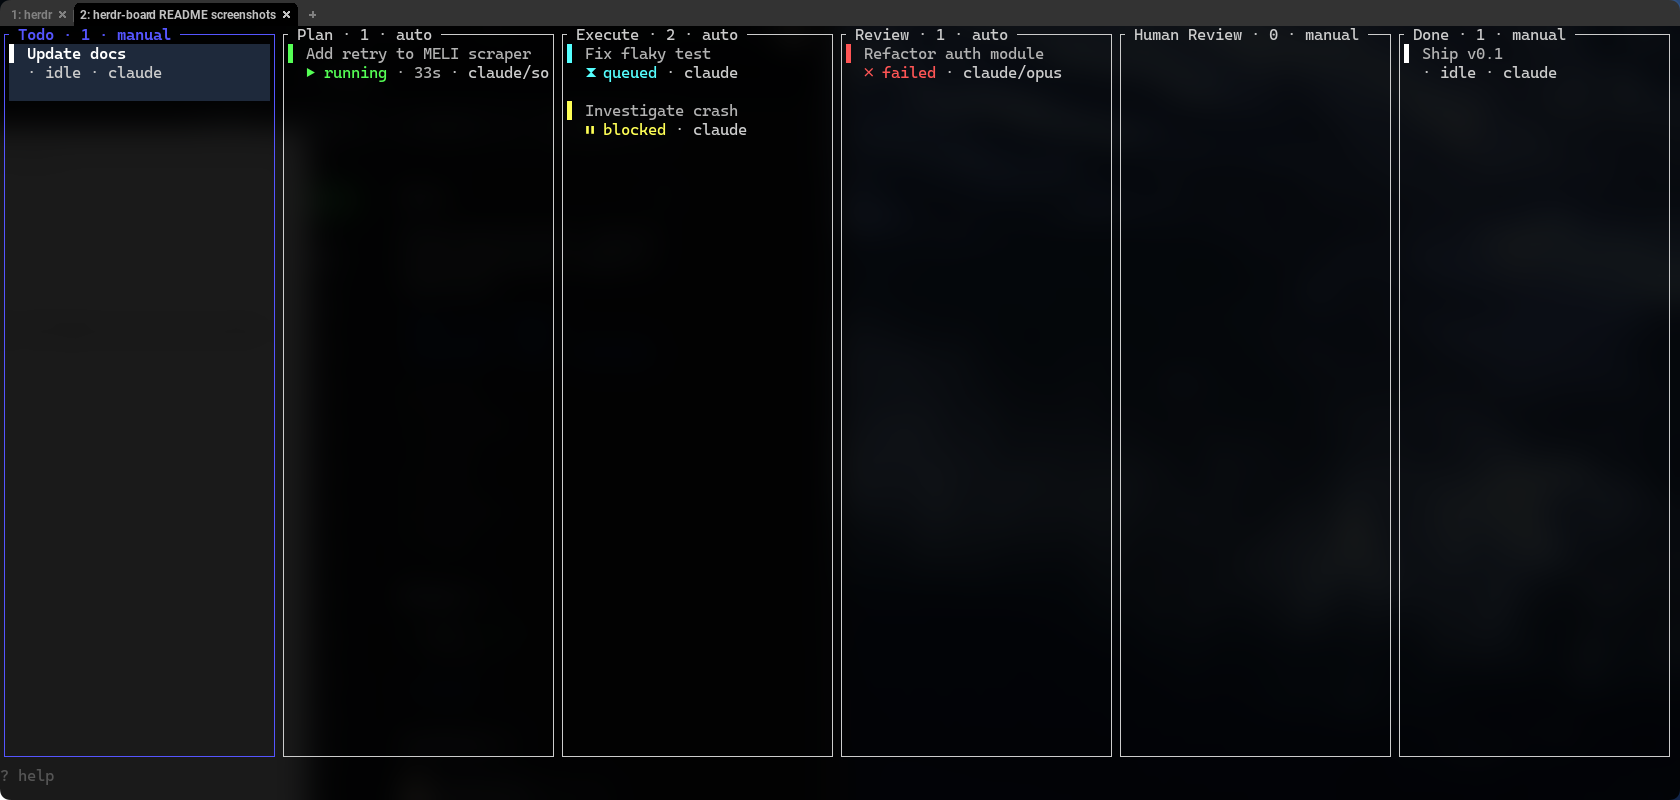
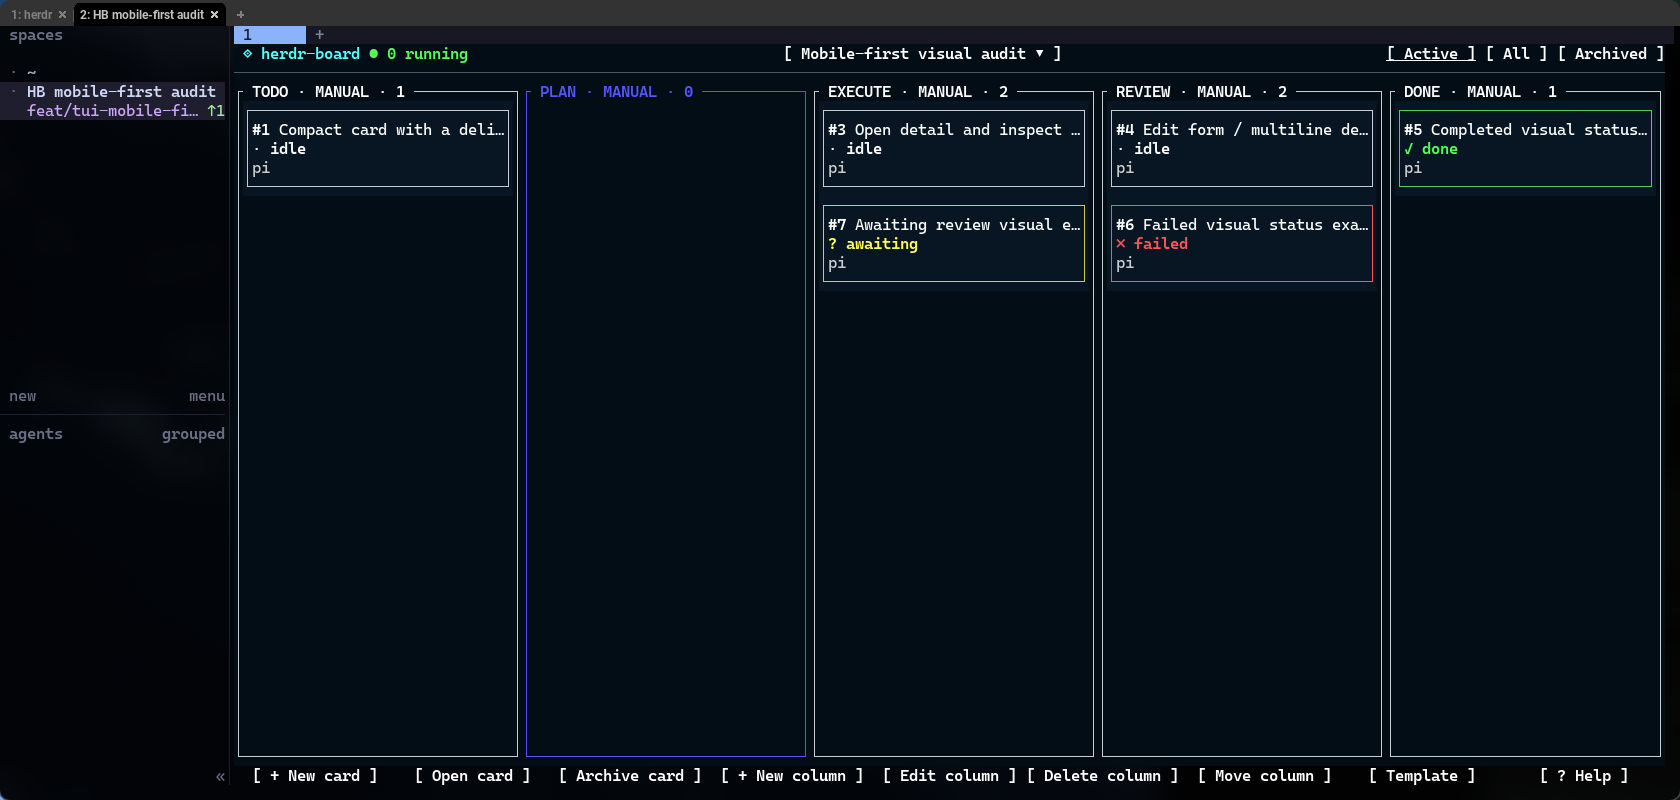
docs: refresh responsive TUI screenshots

diff --git a/README.md b/README.md
@@ -10,7 +10,7 @@ prompts, columns define pipeline stages, and moving work across the board can pl
 and stop at human gates automatically.
 
 <p align="center">
-  <img src="docs/assets/readme/board-overview.png" alt="herdr-board showing a six-column pipeline with idle, running, queued, blocked, and failed cards" width="100%">
+  <img src="docs/assets/readme/board-overview.png" alt="Wide herdr-board view with boxed cards, colored statuses, a single-line header, and a persistent action rail" width="100%">
 </p>
 
 ```text
@@ -120,7 +120,7 @@ All board state lives under `~/.local/share/herdr-board/`; Herdr's own state is 
 
 | Guided card creation | Card context and run history |
 |:--:|:--:|
-| <img src="docs/assets/readme/new-card.png" alt="New card form with harness, model, effort, permission, session, and workspace fields" width="820"> | <img src="docs/assets/readme/card-detail.png" alt="Card detail popup showing status, description, comments, and run history" width="820"> |
+| <img src="docs/assets/readme/new-card.png" alt="Current New card form with a description editor, agent settings, execution target, and persistent action rail" width="820"> | <img src="docs/assets/readme/card-detail.png" alt="Current card detail sheet showing idle status, task configuration, description, runs and comments sections, and actions" width="820"> |
 
 ### Agents run in visible Herdr panes
 
@@ -130,7 +130,7 @@ from durable pane identity, never from a matching label, so a user tab is never 
 placement and recovery rules are in [`docs/design.md`](docs/design.md).
 
 <p align="center">
-  <img src="docs/assets/readme/agent-panes.png" alt="Herdr workspace with board agents in separate per-card tabs" width="100%">
+  <img src="docs/assets/readme/agent-panes.png" alt="Retained Herdr workspace view with visible board agent panes labeled per card" width="100%">
 </p>
 
 ## Mobile-first TUI
@@ -154,6 +154,15 @@ retain wrapped editing and `$EDITOR` support while using the same focused and
 unfocused value treatment as title/name fields. The old persistent footer hint
 row is gone; only transient toasts use its former space. All original keyboard
 shortcuts are preserved.
+
+Compact adapts to smaller screens and is touch-friendly when the terminal maps
+taps to pointer clicks: navigation, filters, cards, and action chips are all
+tappable/clickable. This is pointer-click support rather than native swipe or
+pinch gestures; keyboard shortcuts remain available too.
+
+<p align="center">
+  <img src="docs/assets/readme/compact-board.png" alt="Compact herdr-board with a three-row header, touch-friendly navigation and filters, boxed cards, and a bottom action rail" width="470">
+</p>
 
 ## Everyday controls
 
